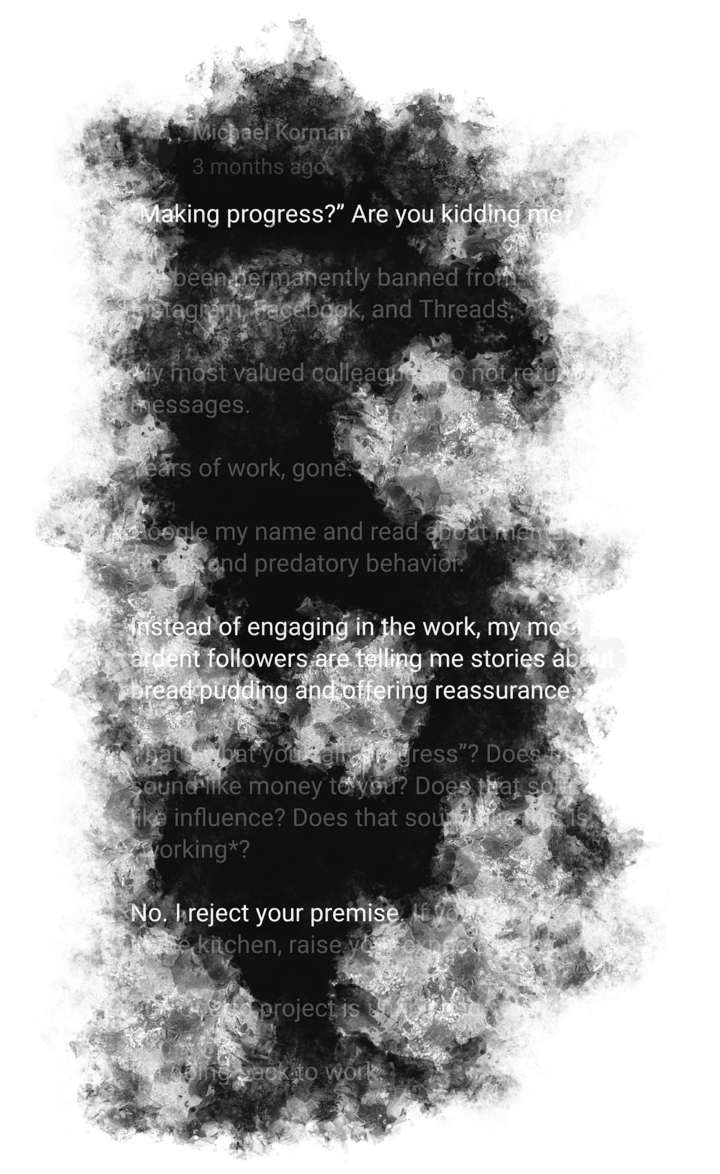
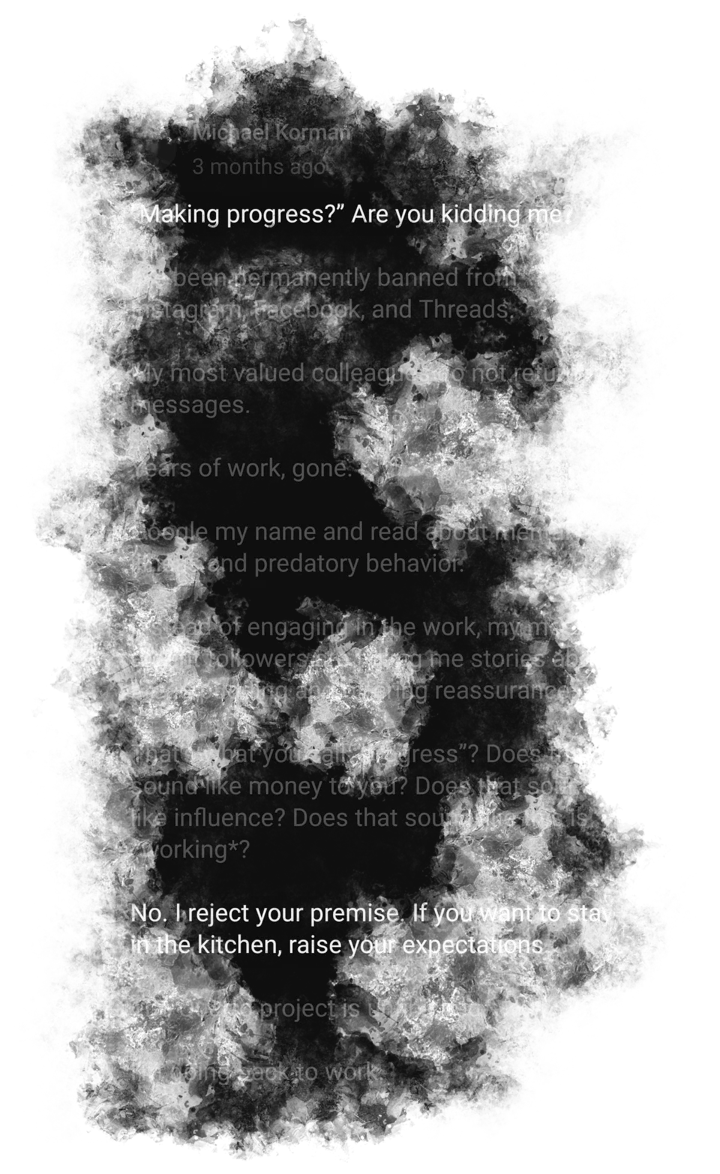
Remove email part of "academic+progress" scene

Changed region(s): [[0.1833, 0.5213, 0.7944, 0.6133], [0.2139, 0.7666, 0.7639, 0.8279]]

diff --git a/door/index.html b/door/index.html
@@ -125,8 +125,8 @@
             <div class="sr-only">
             </div>
 
-            <img src="assets/academic-1.webp" alt="" class="relic-img comment-left">
-            <img src="assets/academic-2.webp" alt="" class="relic-img comment-right">
+            <!-- <img src="assets/academic-1.webp" alt="" class="relic-img comment-left">
+            <img src="assets/academic-2.webp" alt="" class="relic-img comment-right"> -->
             <img src="assets/progress-0.webp" alt="" class="relic-img comment-left">
             <img src="assets/progress-1.webp" alt="" class="relic-img comment-right">
             <img src="assets/progress-2.webp" alt="" class="relic-img comment-left">
